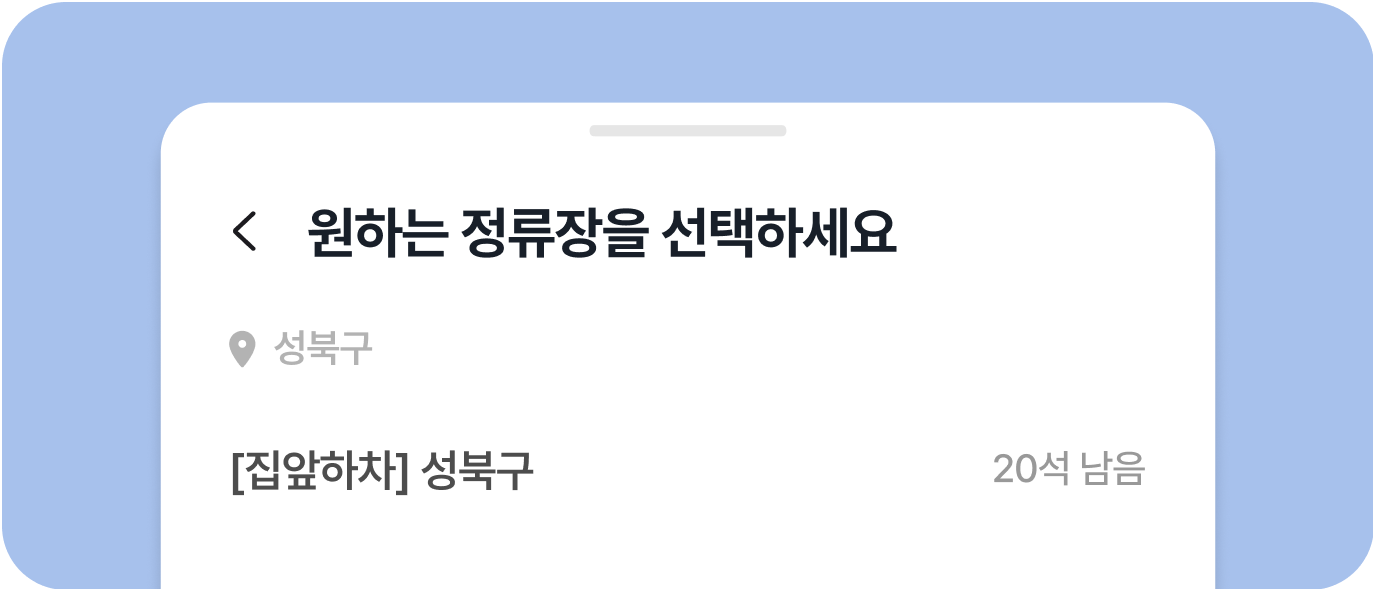
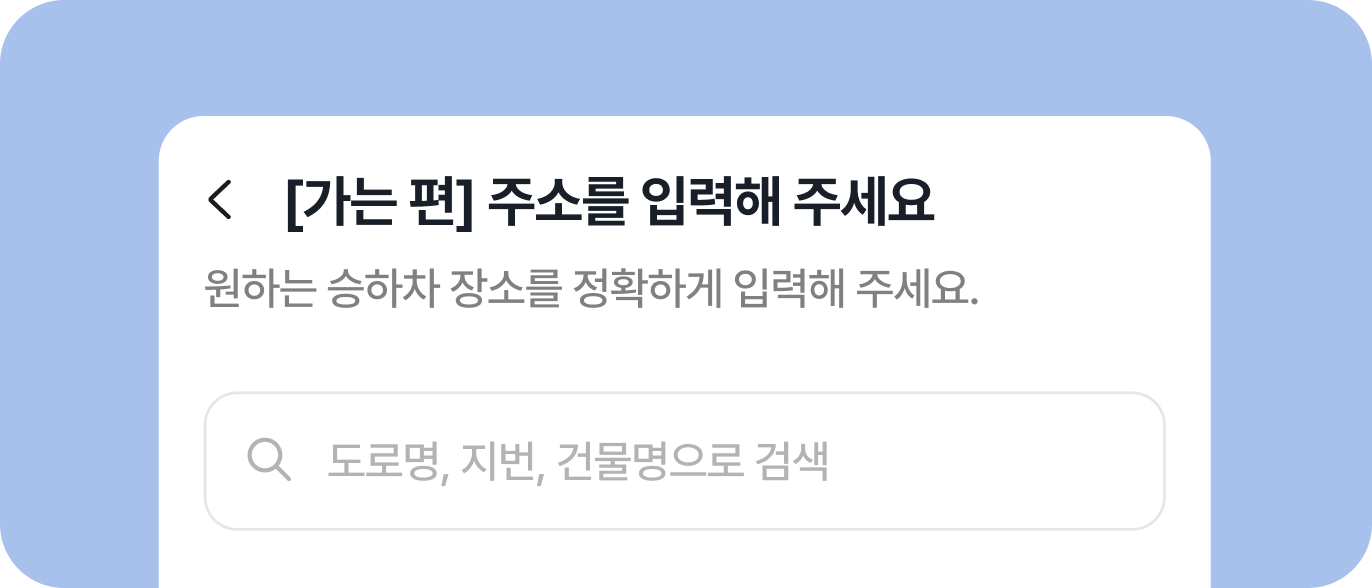
feat: 핸디팟 가이드 업데이트

diff --git a/src/app/help/handybus-guide/page.tsx b/src/app/help/handybus-guide/page.tsx
@@ -14,8 +14,6 @@ import handypartyGuideImageStep2 from './images/handyparty-guide-step-2.png';
 import handypartyGuideImageStep3 from './images/handyparty-guide-step-3.png';
 import handypartyGuideImageStep4 from './images/handyparty-guide-step-4.png';
 import handypartyGuideImageStep5 from './images/handyparty-guide-step-5.png';
-import handypartyGuideImageStep6 from './images/handyparty-guide-step-6.png';
-import handypartyGuideImageStep7 from './images/handyparty-guide-step-7.png';
 import Link from 'next/link';
 import ChevronRightEmIcon from 'public/icons/chevron-right-em.svg';
 import Header from '@/components/header/Header';
@@ -261,47 +259,25 @@ const HANDYPARTY_GUIDE_STEPS = [
   {
     order: 3,
     title: '예약하기',
-    description: (
-      <>
-        우리 동네 정류장을 골라주세요. 예를 들어, &apos;서울특별시 성북구 안암로
-        145&apos;라면 <strong>[집앞하차] 서울 성북구 정류장</strong>을 찾아
-        예약을 진행해 주세요.
-      </>
-    ),
+    description:
+      '핸디팟 예약을 선택 후, 승하차를 원하시는 주소를 정확하게 입력해 주세요. 예약 후에는 주소지 변경이 어려우니 반드시 지도에서 정확한 위치를 선택해 주세요.',
     image: handypartyGuideImageStep3,
   },
   {
     order: 4,
     title: '셔틀 확정 알림',
     description:
-      '탑승일 기준 5일 전까지 운행 확정 여부를 안내드려요. 확정 시 탑승 주소 입력 링크를, 무산 시 취소 안내 및 환불이 즉시 진행되니 핸디버스의 소식을 기다려주세요!',
+      '탑승일 기준 5일 전까지 운행 확정 여부를 안내드려요. 무산 시 취소 안내 및 환불이 즉시 진행되니 핸디버스의 소식을 기다려주세요!',
     image: handypartyGuideImageStep4,
     tagDescription: '탑승 5일 전',
   },
   {
     order: 5,
-    title: '탑승 주소 입력',
-    description:
-      '운행 확정 알림과 함께 문자로 발송되는 링크에 희망하는 정확한 주소를 남겨주세요. 해당 장소에서 탑승, 하차하실 수 있어요.',
-    subDescription:
-      '* 입력하신 주소는 서비스 이용 목적 외에 절대 사용되지 않습니다.',
-    image: handypartyGuideImageStep5,
-    tagDescription: '개별 안내',
-  },
-  {
-    order: 6,
-    title: '오픈채팅방 참여',
-    description:
-      '기사님과 차량 배차가 완료되면, 오픈채팅방 링크를 전달해 드려요. 탑승 전까지 오픈채팅방에서 자유롭게 이야기를 나누어 보세요!',
-    image: handypartyGuideImageStep6,
-    tagDescription: '탑승 1일 전 초대',
-  },
-  {
-    order: 7,
     title: '탑승',
     description:
-      '탑승 30분 전까지 기사님의 개별 연락으로 주차 위치를 안내받을 수 있어요. 정해진 시간에 맞춰 도착하지 않거나, 연락이 두절되는 경우 탑승이 어려울 수 있으니 꼭 주의해 주세요.',
-    image: handypartyGuideImageStep7,
+      '탑승 30분 전까지 기사님의 개별 연락으로 주차 위치를 안내받을 수 있어요. 정해진 시간에 맞춰 도착하지 않거나, 연락이 두절되는 경우 탑승이 어려울 수 있으니 꼭 주의해 주세요. ',
+    subDescription: '* 당일 공연 종료 시간 기준 최대 50분까지 대기',
+    image: handypartyGuideImageStep5,
     tagDescription: '탑승 당일',
   },
 ];
